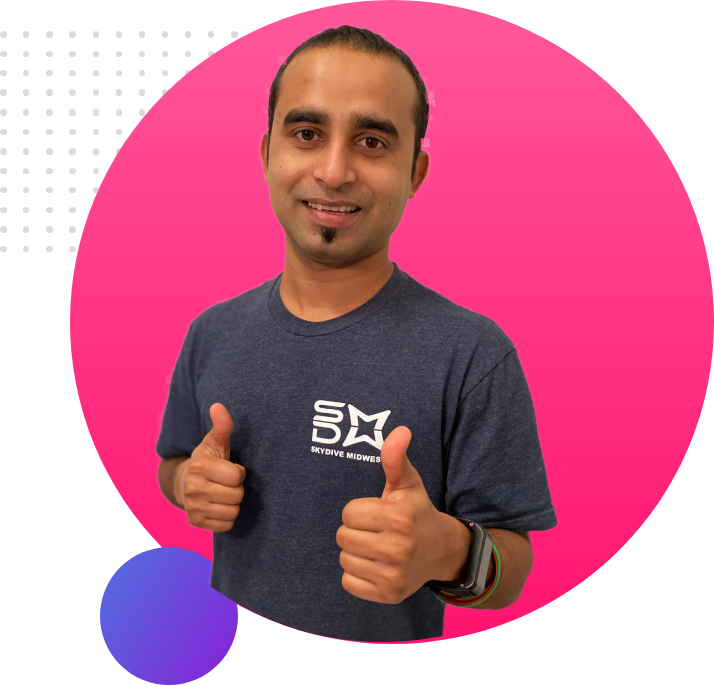
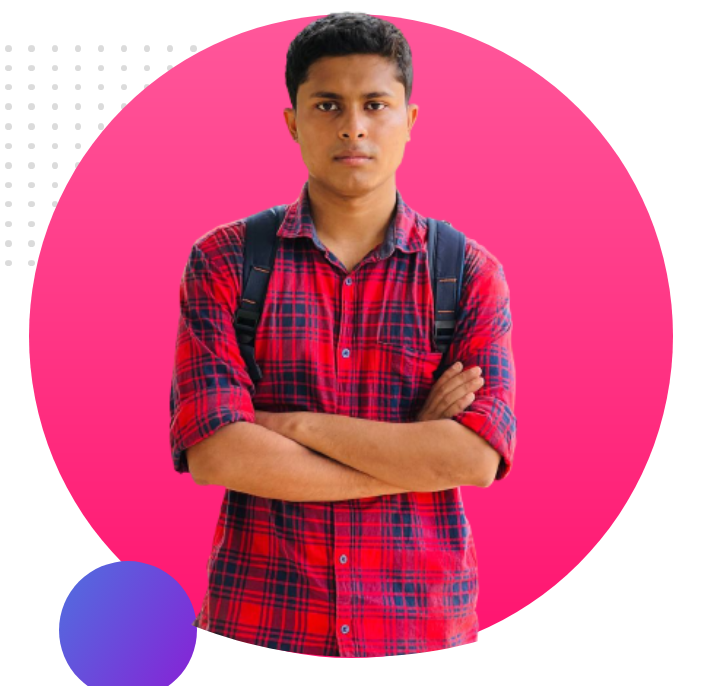
2nd div added

diff --git a/index.html b/index.html
@@ -32,6 +32,23 @@
             <img src="images/Yasin1.png" alt="yasins pic">
         </div>
     </section>
+    <section class="Dream_Big">
+        <div class="half-width">
+            <img src="images/jhankar2.png" alt="">
+        </div>
+        <div class="half-width">
+            <h2>Dream Big</h2>
+            <h3>Become a Web-Developer</h3>
+            <p>Lorem ipsum, dolor sit amet consectetur
+                adipisicing elit. Impedit est sint et veniam
+                ullam ipsam tempora ut, consectetur, animi rerum ad
+                repudiandae ex nisi vitae magni nostrum unde.
+                Sed quaerat quos expedita. Perspiciatis
+                repellat perferendis dolorum saepe alias?
+                Commodi, alias?</p>
+            <a class="link-button" target="_blank" href="">DOWNLOAD RESUME</a>
+        </div>
+    </section>
 </body>
 
 </html>

diff --git a/style.css b/style.css
@@ -13,6 +13,7 @@ h1 {
 
 section {
     display: flex;
+    margin-bottom: 100px;
 }
 
 .half-width {
@@ -22,6 +23,12 @@ section {
 
 .half-width img {
     width: 70%;
+}
+
+.Dream_Big {
+    background-image: url(images/dream-bg.png);
+    background-repeat: no-repeat;
+    background-position: right;
 }
 
 .link-button {
